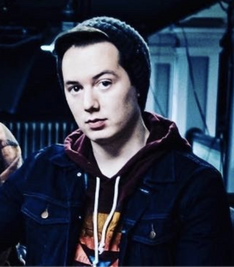
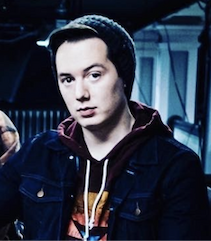
adjusted font and image sizes

diff --git a/oceansonmusic/aboutme.html b/oceansonmusic/aboutme.html
@@ -43,8 +43,7 @@
                     good ideas, bad ideas, disagreements, and excitement. It is easy to write a song or come up
                     with an idea and want to keep it sheltered away so that it is not changed or tainted. However,
                     the music of Ocean Son is a testament that sharing those personal ideas and collaborating with
-                    others can propel creative projects forward in new and exciting ways. I hope you can hear that
-                    as you listen to a few of the tracks that I've produced with this group.
+                    others can propel creative projects forward in new and exciting ways.
                 </p>
                 <p>
                     The name Ocean Son is quite literally my name. Dylan in Welsh translates to "son of the sea",
@@ -58,9 +57,7 @@
                     Consider working with Ocean Son, we'd love to take your track to the next level. We can help
                     write awesome chord progressions, satisfying melodic guitar licks and leads, and creative beats.
                     With years of experience in song arrangement, music production, mixing and mastering, and overall
-                    sound engineering, you will not regret collaborating with Ocean Son on your next big single. If you
-                    are interested in collaborating with me, interested in using my music for a project or having me write
-                    for your creative project, or just need a keyboard player/vocalist, please reach out! 
+                    sound engineering, you will not regret collaborating with Ocean Son on your next big single.
                 </p>
             </div>
             <div id="about-me-img">

diff --git a/oceansonmusic/styles/styles.css b/oceansonmusic/styles/styles.css
@@ -113,12 +113,13 @@ nav {
   align-self: flex-end;
   justify-self: center;
 }
+
 #bio-summary {
   grid-column: 2/5;
   grid-row: 3/4;
   justify-self: center;
   align-self: flex-start;
-  padding-top: 5vh;
+  padding-top: 3vh;
   font-family: Urbanist;
 }
 #bio-summary h1 {
@@ -128,7 +129,7 @@ nav {
   color: #c3a7f8;
 }
 #bio-img img {
-  height: 350px;
+  height: 300px;
   /* border-radius: 5px; */
   border-style: solid;
   border-width: 3px;
@@ -145,7 +146,7 @@ nav {
 .streaming {
   font-family: Urbanist;
   font-weight: 900;
-  font-size: 3em;
+  font-size: 2.7em;
   background-color: #6d04b2;
   color: #c3a7f8;
   grid-column: 5/10;
@@ -170,7 +171,7 @@ nav {
 .overlay-button button {
   font-family: Urbanist;
   font-weight: 600;
-  font-size: 1em;
+  font-size: 0.9em;
   background-color: white;
   color: black;
   border: none;
@@ -219,7 +220,7 @@ nav {
 #no-more a, #heartbeat a, #fallin-apart a{
   font-family: Urbanist;
   font-weight: 600;
-  font-size: 1em;
+  font-size: 0.9em;
   background-color: white;
   color: black;
   border: none;
@@ -364,7 +365,7 @@ form label {
   display: grid; 
   grid-template-columns: 30% 1fr;
   font-weight: 900;
-  font-size: 3.5em;
+  font-size: 3.3em;
   color: #64b0fc;
   text-shadow: 4px 4px 2px rgb(32, 32, 32);
   box-sizing: border-box;
@@ -481,7 +482,7 @@ li {
   font-size: 3em;
   text-align: center;
   padding-top: 20px;
-  text-shadow: 2px 2px 5px black;
+  text-shadow: -1px 0 black, 0 1px black, 1px 0 black, 0 -1px black;
 }
 #about-me-msg p {
   color: white;
